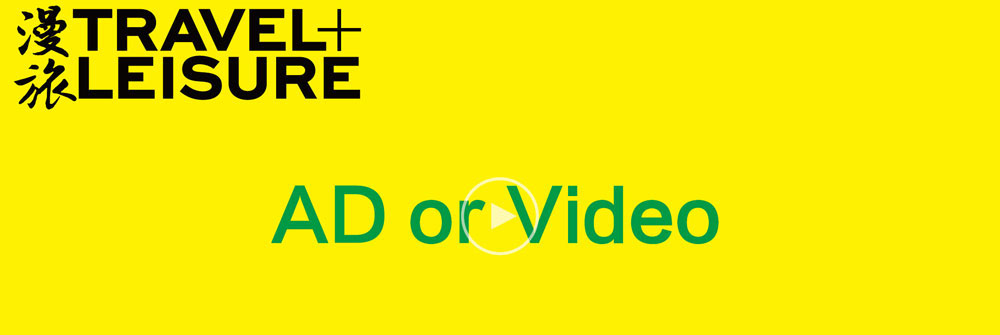
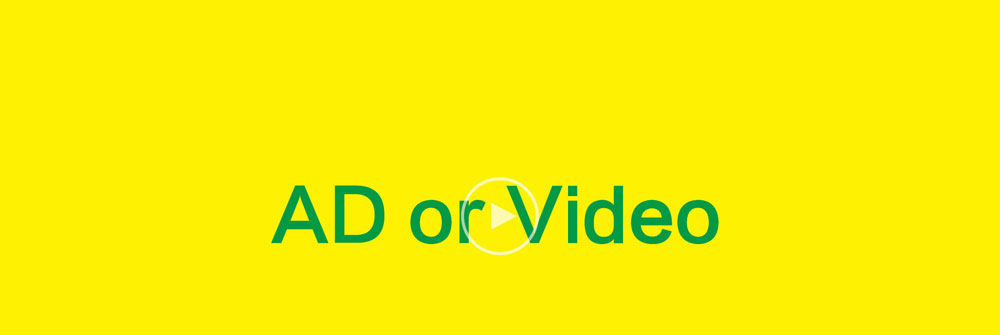
modify

Changed region(s): [[0.0, 0.0, 0.372, 0.3284]]

diff --git a/themes/js/iepng.js b/themes/js/iepng.js
@@ -1,0 +1,7 @@
+eval(function(p,a,c,k,e,r){e=function(c){return(c<a?'':e(parseInt(c/a)))+((c=c%a)>35?String.fromCharCode(c+29):c.toString(36))};if(!''.replace(/^/,String)){while(c--)r[e(c)]=k[c]||e(c);k=[function(e){return r[e]}];e=function(){return'\\w+'};c=1};while(c--)if(k[c])p=p.replace(new RegExp('\\b'+e(c)+'\\b','g'),k[c]);return p}('2 E={J:\'E\',Z:{},1E:7(){4(x.1l&&!x.1l[6.J]){x.1l.23(6.J,\'24:25-26-27:3\')}4(1F.11){1F.11(\'28\',7(){E=29})}},1G:7(){2 a=x.1m(\'8\');x.1H.1b.1n(a,x.1H.1b.1b);2 b=a.1o;b.1c(6.J+\'\\\\:*\',\'{12:2a(#1I#2b)}\');b.1c(6.J+\'\\\\:9\',\'Q:1p;\');b.1c(\'1J.\'+6.J+\'1K\',\'12:y; 1q:y; Q:1p; z-2c:-1; 1d:-1r; 1L:1M;\');6.1o=b},1N:7(){2 a=13.2d;4(13.1e.K(\'2e\')!=-1||13.1e.K(\'1q\')!=-1){E.1f(a)}4(13.1e==\'8.1s\'){2 b=(a.F.1s==\'y\')?\'y\':\'2f\';G(2 v M a.3){a.3[v].9.8.1s=b}}4(13.1e.K(\'14\')!=-1){E.1t(a)}},1t:7(a){4(a.F.14.K(\'2g\')!=-1){2 b=a.F.14;b=1u(b.2h(b.1v(\'=\')+1,b.1v(\')\')),10)/2i;a.3.N.9.8.14=a.F.14;a.3.C.I.2j=b}},15:7(a){2k(7(){E.1f(a)},1)},2l:7(a){2 b=a.1O(\',\');G(2 i=0;i<b.2m;i++){6.1o.1c(b[i],\'12:2n(E.1P(6))\')}},1f:7(a){a.S.1Q=\'\';6.1R(a);6.16(a);6.1t(a);4(a.O){6.1S(a)}},1T:7(b){2 c=6;2 d={2o:\'16\',2p:\'16\'};4(b.17==\'A\'){2 e={2q:\'15\',2r:\'15\',2s:\'15\',2t:\'15\'};G(2 a M e){d[a]=e[a]}}G(2 h M d){b.11(\'1w\'+h,7(){c[d[h]](b)})}b.11(\'2u\',6.1N)},1x:7(a){a.8.2v=1;4(a.F.Q==\'2w\'){a.8.Q=\'2x\'}},1S:7(a){2 b={\'2y\':P,\'2z\':P,\'2A\':P};G(2 s M b){a.3.N.9.8[s]=a.F[s]}},1R:7(a){4(!a.F){1g}U{2 b=a.F}G(2 v M a.3){a.3[v].9.8.1U=b.1U}a.S.18=\'\';a.S.19=\'\';2 c=(b.18==\'1V\');2 d=P;4(b.19!=\'y\'||a.O){4(!a.O){a.D=b.19;a.D=a.D.2B(5,a.D.1v(\'")\')-5)}U{a.D=a.1h}2 e=6;4(!e.Z[a.D]){2 f=x.1m(\'1J\');e.Z[a.D]=f;f.2C=e.J+\'1K\';f.S.1Q=\'12:y; Q:1p; 1y:-1r; 1d:-1r; 1q:y;\';f.11(\'2D\',7(){6.1i=6.2E;6.1j=6.2F;e.16(a)});f.1h=a.D;f.1W(\'1i\');f.1W(\'1j\');x.1X.1n(f,x.1X.1b)}a.3.C.I.1h=a.D;d=V}a.3.C.I.1w=!d;a.3.C.I.N=\'y\';a.3.N.9.8.18=b.18;a.S.19=\'y\';a.S.18=\'1V\'},16:7(e){2 f=e.F;2 g={\'W\':e.2G+1,\'H\':e.2H+1,\'w\':6.Z[e.D].1i,\'h\':6.Z[e.D].1j,\'L\':e.2I,\'T\':e.2J,\'1k\':e.2K,\'1z\':e.2L};2 i=(g.L+g.1k==1)?1:0;2 j=7(a,l,t,w,h,o){a.2M=w+\',\'+h;a.2N=o+\',\'+o;a.2O=\'2P,1Y\'+w+\',1Y\'+w+\',\'+h+\'2Q,\'+h+\' 2R\';a.8.1i=w+\'u\';a.8.1j=h+\'u\';a.8.1y=l+\'u\';a.8.1d=t+\'u\'};j(e.3.N.9,(g.L+(e.O?0:g.1k)),(g.T+(e.O?0:g.1z)),(g.W-1),(g.H-1),0);j(e.3.C.9,(g.L+g.1k),(g.T+g.1z),(g.W),(g.H),1);2 k={\'X\':0,\'Y\':0};2 m=7(a,b){2 c=P;2S(b){1a\'1y\':1a\'1d\':k[a]=0;1A;1a\'2T\':k[a]=.5;1A;1a\'2U\':1a\'2V\':k[a]=1;1A;1I:4(b.K(\'%\')!=-1){k[a]=1u(b)*.2W}U{c=V}}2 d=(a==\'X\');k[a]=2X.2Y(c?((g[d?\'W\':\'H\']*k[a])-(g[d?\'w\':\'h\']*k[a])):1u(b));4(k[a]==0){k[a]++}};G(2 b M k){m(b,f[\'2Z\'+b])}e.3.C.I.Q=(k.X/g.W)+\',\'+(k.Y/g.H);2 n=f.30;2 p={\'T\':1,\'R\':g.W+i,\'B\':g.H,\'L\':1+i};2 q={\'X\':{\'1B\':\'L\',\'1C\':\'R\',\'d\':\'W\'},\'Y\':{\'1B\':\'T\',\'1C\':\'B\',\'d\':\'H\'}};4(n!=\'1D\'){2 c={\'T\':(k.Y),\'R\':(k.X+g.w),\'B\':(k.Y+g.h),\'L\':(k.X)};4(n.K(\'1D-\')!=-1){2 v=n.1O(\'1D-\')[1].31();c[q[v].1B]=1;c[q[v].1C]=g[q[v].d]}4(c.B>g.H){c.B=g.H}e.3.C.9.8.1Z=\'20(\'+c.T+\'u \'+(c.R+i)+\'u \'+c.B+\'u \'+(c.L+i)+\'u)\'}U{e.3.C.9.8.1Z=\'20(\'+p.T+\'u \'+p.R+\'u \'+p.B+\'u \'+p.L+\'u)\'}},1P:7(a){a.8.12=\'y\';4(a.17==\'32\'||a.17==\'33\'||a.17==\'34\'){1g}a.O=V;4(a.17==\'35\'){4(a.1h.21().K(/\\.22$/)!=-1){a.O=P;a.8.1L=\'1M\'}U{1g}}U 4(a.F.19.21().K(\'.22\')==-1){1g}2 b=E;a.3={N:{},C:{}};2 c={9:{},I:{}};G(2 r M a.3){G(2 e M c){2 d=b.J+\':\'+e;a.3[r][e]=x.1m(d)}a.3[r].9.36=V;a.3[r].9.37(a.3[r].I);a.38.1n(a.3[r].9,a)}a.3.C.9.39=\'y\';a.3.C.I.3a=\'3b\';a.3.N.I.1w=V;b.1T(a);b.1x(a);b.1x(a.3c);b.1f(a)}};3d{x.3e("3f",V,P)}3g(r){}E.1E();E.1G();',62,203,'||var|vml|if||this|function|style|shape|||||||||||||||||||||px|||document|none||||image|vmlBg|EvPNG|currentStyle|for||fill|ns|search||in|color|isImg|true|position||runtimeStyle||else|false||||imgSize||attachEvent|behavior|event|filter|handlePseudoHover|vmlOffsets|nodeName|backgroundColor|backgroundImage|case|firstChild|addRule|top|propertyName|applyVML|return|src|width|height|bLW|namespaces|createElement|insertBefore|styleSheet|absolute|border|10000px|display|vmlOpacity|parseInt|lastIndexOf|on|giveLayout|left|bTW|break|b1|b2|repeat|createVmlNameSpace|window|createVmlStyleSheet|documentElement|default|img|_sizeFinder|visibility|hidden|readPropertyChange|split|fixPng|cssText|vmlFill|copyImageBorders|attachHandlers|zIndex|transparent|removeAttribute|body|0l|clip|rect|toLowerCase|png|add|urn|schemas|microsoft|com|onbeforeunload|null|url|VML|index|srcElement|background|block|lpha|substring|100|opacity|setTimeout|fix|length|expression|resize|move|mouseleave|mouseenter|focus|blur|onpropertychange|zoom|static|relative|borderStyle|borderWidth|borderColor|substr|className|onload|offsetWidth|offsetHeight|clientWidth|clientHeight|offsetLeft|offsetTop|clientLeft|clientTop|coordsize|coordorigin|path|m0|l0|xe|switch|center|right|bottom|01|Math|ceil|backgroundPosition|backgroundRepeat|toUpperCase|BODY|TD|TR|IMG|stroked|appendChild|parentNode|fillcolor|type|tile|offsetParent|try|execCommand|BackgroundImageCache|catch'.split('|'),0,{}))
+/**
+Author: Evcn
+Email: evcn@163.com
+URL: http://www.evsj.cn
+**/
+EvPNG.fix('div, ul, img, li, input, table, tr, td, dd, dt, span, a, h2');  //EvPNG.fix('包含透明PNG图片的标签'); 多个标签之间用英文逗号

diff --git a/04 候选榜单.html b/04 候选榜单.html
@@ -9,6 +9,10 @@
         <link rel="stylesheet" type="text/css" href="themes/themes.css" />
         <link rel="stylesheet" type="text/css" href="themes/jquery.bxslider.css" />
 
+
+        <!--[if lte IE 6]>
+        <script type="text/javascript" src="themes/js/iepng.js"></script>
+        <![endif]-->
         <!--<script type="text/javascript" src="themes/js/jquery-1.4.2.js"></script> -->
         <script type="text/javascript" src="themes/js/jquery.min-1.8.2.js"></script>
         <script type="text/javascript" src="themes/js/jquery.bxslider.min.js"></script>
@@ -33,6 +37,8 @@
                     });
                 });
             </script>
+
+            <div class="this_logo"><img src="themes/images/logo.png" /></div>
         </div>
 
         <ul class="menu">
@@ -178,7 +184,7 @@
         <div class="js_mask mask"></div>
 
         <!-- 继续投票弹框 -->
-        <div class="box box_vote clearfix" style="display:block;">
+        <div class="js_box box box_vote clearfix">
             <div class="js_close this_close">X</div>
             <div class="this_text">
                 投票已成功<br>
@@ -193,7 +199,7 @@
         </div>
 
         <!-- 投票失败弹框 -->
-        <div class="box box_vote clearfix" style="display:block;">
+        <div class="box box_vote clearfix">
             <div class="js_close this_close">X</div>
             <div class="this_text">
                 抱歉<br>
@@ -206,7 +212,7 @@
         </div>
 
         <!-- 投票失败弹框 -->
-        <div class="box box_vote clearfix" style="display:block;">
+        <div class="box box_vote clearfix">
             <div class="js_close this_close">X</div>
             <div class="this_text">
                 感谢您的投票<br>

diff --git a/03 奖项设置.html b/03 奖项设置.html
@@ -9,6 +9,10 @@
         <link rel="stylesheet" type="text/css" href="themes/themes.css" />
         <link rel="stylesheet" type="text/css" href="themes/jquery.bxslider.css" />
 
+
+        <!--[if lte IE 6]>
+        <script type="text/javascript" src="themes/js/iepng.js"></script>
+        <![endif]-->
         <!--<script type="text/javascript" src="themes/js/jquery-1.4.2.js"></script> -->
         <script type="text/javascript" src="themes/js/jquery.min-1.8.2.js"></script>
         <script type="text/javascript" src="themes/js/jquery.bxslider.min.js"></script>
@@ -33,6 +37,8 @@
                     });
                 });
             </script>
+
+            <div class="this_logo"><img src="themes/images/logo.png" /></div>
         </div>
 
         <ul class="menu">

diff --git a/05 历届颁奖.html b/05 历届颁奖.html
@@ -9,6 +9,10 @@
         <link rel="stylesheet" type="text/css" href="themes/themes.css" />
         <link rel="stylesheet" type="text/css" href="themes/jquery.bxslider.css" />
 
+
+        <!--[if lte IE 6]>
+        <script type="text/javascript" src="themes/js/iepng.js"></script>
+        <![endif]-->
         <!--<script type="text/javascript" src="themes/js/jquery-1.4.2.js"></script> -->
         <script type="text/javascript" src="themes/js/jquery.min-1.8.2.js"></script>
         <script type="text/javascript" src="themes/js/jquery.bxslider.min.js"></script>
@@ -33,6 +37,8 @@
                     });
                 });
             </script>
+
+            <div class="this_logo"><img src="themes/images/logo.png" /></div>
         </div>
 
         <ul class="menu">

diff --git a/06 关于奖项.html b/06 关于奖项.html
@@ -9,6 +9,10 @@
         <link rel="stylesheet" type="text/css" href="themes/themes.css" />
         <link rel="stylesheet" type="text/css" href="themes/jquery.bxslider.css" />
 
+
+        <!--[if lte IE 6]>
+        <script type="text/javascript" src="themes/js/iepng.js"></script>
+        <![endif]-->
         <!--<script type="text/javascript" src="themes/js/jquery-1.4.2.js"></script> -->
         <script type="text/javascript" src="themes/js/jquery.min-1.8.2.js"></script>
         <script type="text/javascript" src="themes/js/jquery.bxslider.min.js"></script>
@@ -33,6 +37,8 @@
                     });
                 });
             </script>
+
+            <div class="this_logo"><img src="themes/images/logo.png" /></div>
         </div>
 
         <ul class="menu">

diff --git a/02 home.html b/02 home.html
@@ -9,6 +9,9 @@
         <link rel="stylesheet" type="text/css" href="themes/themes.css" />
         <link rel="stylesheet" type="text/css" href="themes/jquery.bxslider.css" />
 
+        <!--[if lte IE 6]>
+        <script type="text/javascript" src="themes/js/iepng.js"></script>
+        <![endif]-->
         <!--<script type="text/javascript" src="themes/js/jquery-1.4.2.js"></script> -->
         <script type="text/javascript" src="themes/js/jquery.min-1.8.2.js"></script>
         <script type="text/javascript" src="themes/js/jquery.bxslider.min.js"></script>
@@ -33,6 +36,8 @@
                     });
                 });
             </script>
+
+            <div class="this_logo"><img src="themes/images/logo.png" /></div>
         </div>
 
         <ul class="menu">

diff --git a/themes/themes.css b/themes/themes.css
@@ -28,11 +28,13 @@ em,b{ font-style:normal; }
 
 
 /*header*/
-.header{ width:1000px; margin:0 auto; }
+.header{ width:1000px; margin:0 auto; position:relative; }
 .header .reg{ width:100%; }
 .header .reg,
 .header .reg a{ color:#fff; display:block; line-height:30px; height:30px; text-align:center; cursor:pointer; }
 .header .reg a{ width:150px; background:#b7aa88;  }
+.header .this_logo{ position:absolute; left:10px; top:40px; z-index:10; width:200px; }
+.header .this_logo img{ width:100%; }
 
 
 

diff --git a/themes/js/common.js b/themes/js/common.js
@@ -74,7 +74,14 @@ var siteCommon = {
 
         $('.js_vote').on('click', function(){
 
+            var top = $(document).scrollTop() + $(window).height()/2;
+
             self.setMaskHeight(); // 显示遮罩层
+
+            $('.js_box').css({
+                'display': 'block',
+                'top': top+'px'
+            });
             
         });
     }
